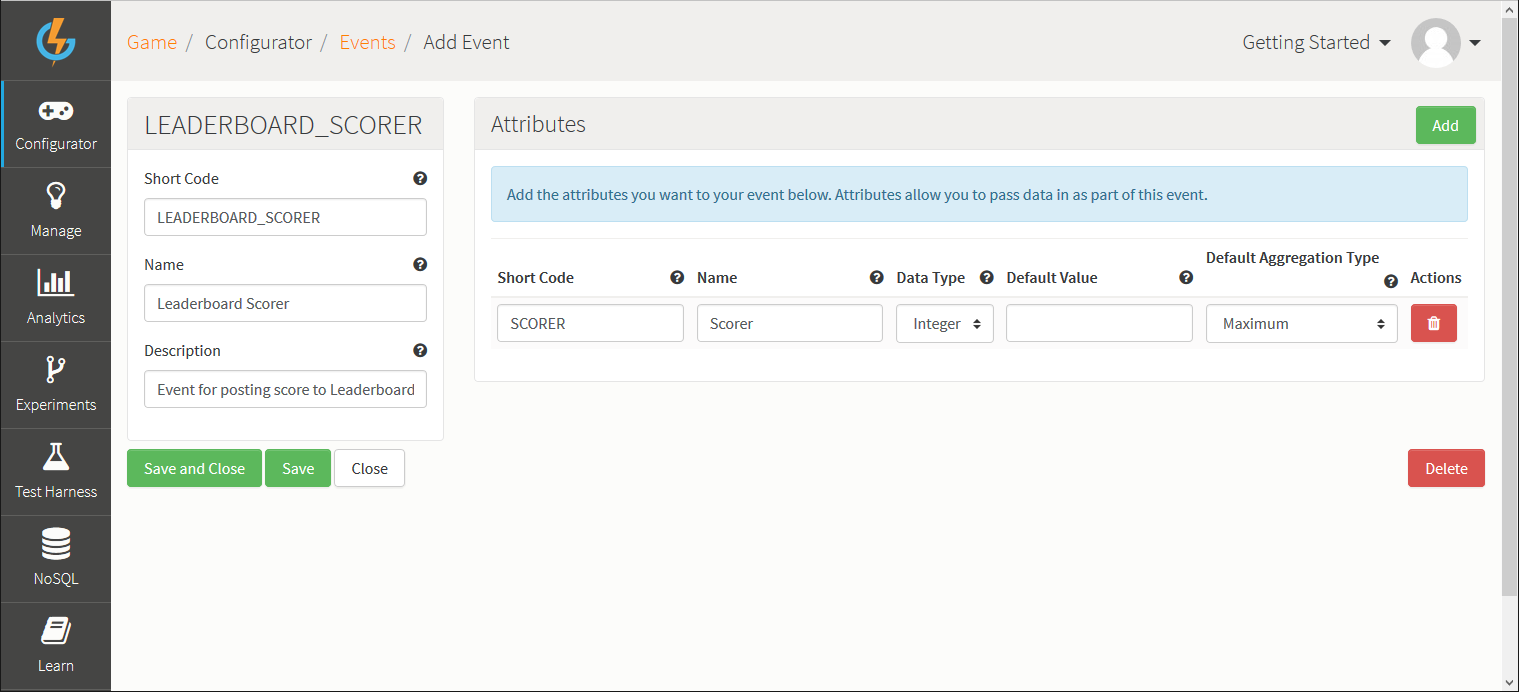
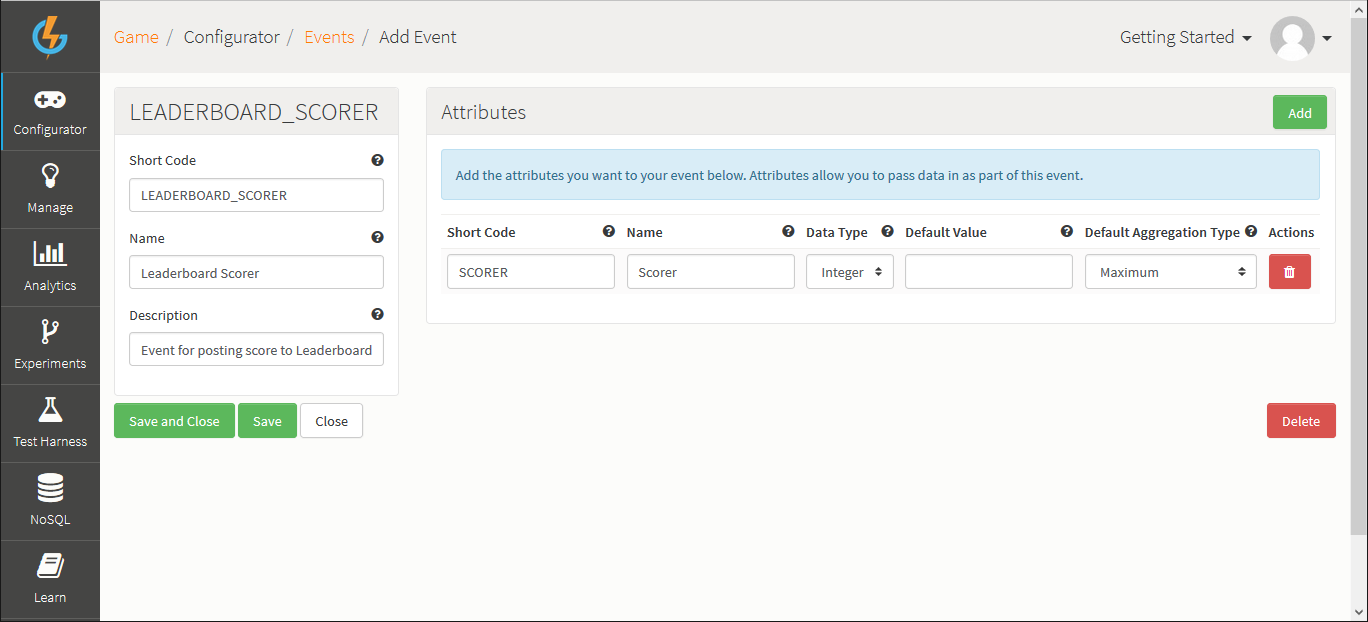
NEW UI rescreenshotting updates for GETTING STARTED topics

diff --git a/MARKDOWN/Getting Started/Creating a Leaderboard/README.md b/MARKDOWN/Getting Started/Creating a Leaderboard/README.md
@@ -18,7 +18,7 @@ In this tutorial, we'll go over the steps required to create an Event, attach 
 
 ## Creating an Event
 
-<q>**More Details on Events?** For an in-depth guide about Events click [here](/Documentation/Configurator/Events.md).</q>
+<q>**More Details on Events?** For an in-depth guide on Events click [here](/Documentation/Configurator/Events.md).</q>
 
 *1.* First, navigate to *Configurator > Events*.
 
@@ -35,15 +35,15 @@ In this tutorial, we'll go over the steps required to create an Event, attach 
 *5.* Enter the details for the Attribute:
   * *Attribute Name* - This field is referenced in the Test Harness and Leaderboards.
   * *Attribute Short Code* - This is the reference we'll be using to pass in an Attribute into the Event.
-  * *Data Type* - The type of data being passed in - String, Integer, or JSON.
-  * *Default Value* - This is the default value that would be used for this Event Attribute if it's not passed into the [LogEventRequest](/API Documentation/Request API/Player/LogEventRequest.md).
-  * *Default Calculation* - This determines how values are tracked in the Running Totals.
+  * *Data Type* - The type of data being passed in - String, Integer, or JSON. Select *Integer*
+  * *Default Value* - The default value that would be used for this Event Attribute if it's not passed into the [LogEventRequest](/API Documentation/Request API/Player/LogEventRequest.md).
+  * *Default Aggregation Type* - This determines how values are tracked in the Running Totals.
 
-<q>**Note:** You don't need to understand fully the concept of Running Totals for the purposes of this tutorial. For the Event Attribute, we set *Default Calc* to *Maximum* because we want to track the highest score posted for your player in the example we're setting up. Any Event that you create with an Attribute which *doesn't have* the *Default Calc* set to *Used in Script* will appear for selection as a Running Total when you configure a Leaderboard. (You can learn more about Running Totals [here](/Documentation/Configurator/Running Totals.md).)</q>
+<q>**Note:** You don't need to understand fully the concept of Running Totals for the purposes of this tutorial. For the Event Attribute, we set *Default Aggregation Type* to *Maximum* because we want to track the highest score posted for your player in the example we're setting up. Any Event that you create with an Attribute which *doesn't have* the *Default Aggregation Type* set to *Used in Script* will appear for selection as a Running Total when you configure a Leaderboard. (You can learn more about Running Totals [here](/Documentation/Configurator/Running Totals.md).)</q>
 
 ![](img/CreatingALeaderboard/7.png)
 
-*6.* Click to *Save and Close* the new Event with Score Attribute. You are returned to the *Events* page and the new Event will be added.
+*6.* Click to *Save and Close* the new Event with *Scorer* Attribute. You are returned to the *Events* page where the new Event will be added.
 
 ## Creating a Leaderboard
 
@@ -75,23 +75,23 @@ In this tutorial, we'll go over the steps required to create an Event, attach 
 
 When you've created your Leaderboard, navigate to the Test Harness. At this point, follow the steps you've used in the [Authentication](/Documentation/Key Concepts/Authentication.md) tutorial to create a second player.
 
-![](img/CreatingALeaderboard/3.png)
+![](img/CreatingALeaderboard/9.png)
 
-*1.* *Re-authenticate* using your *first* player. The authentication tutorial used username: *gs_player *and password: *gs_password*.
+*1.* *Re-authenticate* using your *first* player. The authentication tutorial used userName: *gs_player* and password: *gs_password*.
 
-*2.* When this completes, you'll need to click on [LogEventRequest](/API Documentation/Request API/Player/LogEventRequest.md) and select the Event you have created previously
+*2.* When this completes, you'll need to click on [LogEventRequest](/API Documentation/Request API/Player/LogEventRequest.md) and select the *Leaderboard Scorer* Event you created previously
 
-*3.* In the JSON builder, change the Score attribute of the Event to *1* and click the play ![](/img/fa/play.png) icon. This will log an Event, and since the Event is attached to a Leaderboard, it will post a score into that Leaderboard. The player will then receive a [NewHighScoreMessage](/API Documentation/Message API/Leaderboards/NewHighScoreMessage.md) indicating that their score has been updated in the Leaderboard.
+*3.* In the JSON builder, change the *SCORER* Attribute of the Event to *1* and click *Send request*. This will log an Event, and since the Event is attached to a Leaderboard, it will post a score into that Leaderboard. The player will then receive a [NewHighScoreMessage](/API Documentation/Message API/Leaderboards/NewHighScoreMessage.md) indicating that their score has been updated in the Leaderboard:
 
-*4.* Repeat this process for the *second* player, but this time entering a score of *2*:
+![](img/CreatingALeaderboard/10.png)
 
-![](img/CreatingALeaderboard/4.png)
+*4.* Repeat this process for the *second* player, but this time entering a score of *2*.
 
 *5.* You can now validate that the Leaderboard has worked correctly, that our sorting has taken place, and that both player scores have been logged by calling a [LeaderboardDataRequest](/API Documentation/Request API/Leaderboards/LeaderboardDataRequest.md), passing in the Leaderboard *Short Code* and the *Entry Count*.
 
 <q>**Note:** You will have additional JSON fields pre-filled, simply remove those as they are not used in this tutorial, all you need is *leaderboardShortCode* and *entryCount*.</q>
 
-![](img/CreatingALeaderboard/5.png)
+![](img/CreatingALeaderboard/11.png)
 
 
 ##  Listing Entries

diff --git a/MARKDOWN/Getting Started/Creating a Leaderboard/Unity Leaderboards.md b/MARKDOWN/Getting Started/Creating a Leaderboard/Unity Leaderboards.md
@@ -23,20 +23,20 @@ The first thing you need to do is create an Event that will push the player’s
 <q>**More Details on Events?** For an in-depth guide about Events click [here](/Documentation/Configurator/Events.md).</q>
 
 
-For this tutorial, your new Event needs one Attribute, which will be the score, and you can call the Event something like *Submit Score*. You can see the options for creating an Event are as follows:
+For this tutorial, your new Event needs one Attribute, which will be the score, and you can call the Event something like *Submit Score*. The options for creating an Event are as follows:
 
 *   *Short Code* – This mandatory field is the reference by which you will call the Event. *Short Codes* are always unique.
 *   *Name* – This mandatory field is used when representing the Event in Test Harness as well as in Cloud Code.
 *   *Description* – This mandatory field is used to display what the Event is used for. You can use this field for your own benefit by entering a description of the Event's purpose.
 * For the Attribute:
-	*   *Attribute Name* - This field is the name of the Attribute you want to pass into the Event. In your case this will be *Score*.
-	*   *Attribute Short Code* – This is the reference you'll be using to pass in an Attribute into the Event from Unity. In your case this will be *SCORE*.
-	*   *Data Type* – The type of data being passed in - String, Number, JSON. In your case, select *Number*.
+	*   *Name* - This field is the name of the Attribute you want to pass into the Event. In your case this will be *Score*.
+	*   *Short Code* – This is the reference you'll be using to pass in an Attribute into the Event from Unity. In your case this will be *SCORE*.
+	*   *Data Type* – The type of data being passed in - String, Integer, JSON. In your case, select *Integer*.
 	*   *Default Value* – This would be the default value that would be used for this Event Attribute if it’s not passed into the [LogEventRequest](/API Documentation/Request API/Player/LogEventRequest.md) , that is, a score of zero would be the default.
-	*   *Default Calculation* – This determines how values are tracked in the Running Totals. In your case you want the score to record the maximum, which means the Leaderboard will only record the player’s highest score. If they submit a lower score to the board, it will not be recorded.
+	*   *Default Aggregation Type* – This determines how values are tracked in the Running Totals. In your case you want the score to record the *Maximum*, which means the Leaderboard will only record the player’s highest score. If a player submits a lower score to the board, it will not be recorded.
 
 
-![](img/UT/1.png)
+![](img/UT/15.png)
 
 
 ## Creating the Leaderboard
@@ -45,7 +45,7 @@ Next you'll need to create your Leaderboard.
 
 *1.* Navigate to *Configurator > Leaderboards*.
 
-*2.* Click the plus ![](/img/fa/plus.png) icon to add a new Leaderboard. The *Create Leaderboard* dialog appears.
+*2.* Click *Add*. The page adjust for adding a new Leaderboard.
 
 <q>**More on Leaderboards?** Most of the details you see here can be left as default for this tutorial but you can get more information about Leaderboard configuration [here](/Documentation/Configurator/Leaderboards.md).</q>
 
@@ -53,11 +53,12 @@ Next you'll need to create your Leaderboard.
 * *Short Code*
 * *Name*
 * *Description*
+* *High Score Notifications*
 
-*4.* Click the plus icon ![](/img/fa/plus.png) to add a *Running Total* to the Leaderboard:
+*4.* Under *Fields*, click *Add* to add *Running Total* to the Leaderboard:
 * If the *Submit Score* created above is the first Event you've created in your game, this will be pre-selected for the new *Running Total*. This is because it's the only applicable Event you have in your game at the moment.
 
-![](img/UT/2.png)
+![](img/UT/16.png)
 
 ## Testing the Leaderboard
 
@@ -65,11 +66,11 @@ Now you're ready to send some scores to your Leaderboard. However, before you g
 
 After authenticating yourself as a Player, find your Event in the *LogEvent* tab, enter a score, and send the Event.
 
-![](img/UT/13.png)
+![](img/UT/17.png)
 
 Immediately after you send the request, you will see an orange message appear in the *Inspector*. This is a *NewHighScoreMessage* and when you go back into Unity you are going to set up an Event listener to execute some code whenever a player gets this Message.
 
-![](img/UT/4.png)
+![](img/UT/18.png)
 
 
 ### Getting the Leaderboard Data
@@ -79,7 +80,7 @@ You can also check your Leaderboard data entries from the Test Harness using th
 * This request gives you a lot of control over the entries it will return. However, you are only concerned with the Leaderboard *Short Code* and the *entry count* (the number of entries this request will return).
 * When you send the request, you'll see the list of Leaderboard entries returned on the *Inspector* on the right:
 
-![](img/UT/14.png)
+![](img/UT/19.png)
 
 
 Now you're ready to start sending and receiving Leaderboard data in Unity.

diff --git a/MARKDOWN/Getting Started/Creating an Achievement/README.md b/MARKDOWN/Getting Started/Creating an Achievement/README.md
@@ -24,7 +24,7 @@ In this section you'll learn how to award an Achievement using custom Cloud Code
 
 *1.* First, navigate to *Configurator > Achievements*.
 
-*2.* Click the plus ![](/img/fa/plus.png) icon. The *Create Achievement* dialog appears.
+*2.* Click *Add*. The *Add Achievement* page opens.
 
 *3.* Enter the details for the new Achievement:
 
@@ -36,16 +36,18 @@ In this section you'll learn how to award an Achievement using custom Cloud Code
 
 <q>**More on Achievements?** For an in-depth guide about Achievements click [here](/Documentation/Configurator/Achievements.md).</q>
 
-![](img/Create/8.png)
+![](img/Create/9.png)
 
 <q>**Other Configuration Options?** All other Achievement configuration options that are not listed above can be left as default for this tutorial.</q>
+
+*4.* Click *Save and Close*. The *Add Achievement* page closes and you are returned to the *Achievements* page where your new Achievement is added.
 
 ## Creating an Event
 
 Following creation of an Achievement, you'll need to create a new Event. You can reference back to [Creating a Leaderboard](/Getting Started/Creating a Leaderboard/README.md) if you need to refresh on how to do this:
 * We'll call the Event *Award Achievement*.
 
-![](img/Create/2.png)
+![](img/Create/10.png)
 
 ## Attaching Cloud Code to the Event
 
@@ -55,9 +57,9 @@ After you've created and configured the *Award Achievement* Event, you'll need t
 
 *2.* In the *Cloud Code* editor, add your custom Cloud Code for this Event.
 
-*3.* Click *Save* and you should see a *Success* alert.
+*3.* Click *Save*.
 
-![](img/Create/7.png)
+![](img/Create/11.png)
 
 * This piece of Cloud Code takes hold of the player object that is currently authenticated:
 
@@ -77,17 +79,17 @@ The Achievement is now fully configured to be awarded!
 
 *2.* At this point the Achievement you have configured awards some currency, and you need to validate that the player currently doesn't have any currency associated with their account. To do this you'll need to select Player tab and send an [AccountDetailsRequest](/API Documentation/Request API/Player/AccountDetailsRequest.md).
 
-![](img/Create/4.png)
+![](img/Create/12.png)
 
 *3.* Now you'll need to send the [LogEventRequest](/API Documentation/Request API/Player/LogEventRequest.md) for the Event you've configured earlier and using the  *Award_Achievement* Short Code you gave it as the *eventKey*:
 * This will award the Achievement to the currently authenticated player and send the [AchievementEarnedMessage](/API Documentation/Message API/Player/AchievementEarnedMessage.md).
 * Additionally, if you've enabled debug mode on your requests, the debugger should activate and you will be able to step through your Cloud Code. This only happens if your Requests/Responses/Messages have Cloud Code attached to them. You can read more about debugging Cloud Code [here](/Documentation/Test Harness/Debugger.md). After you've stepped through or exited the debugger, your player will be awarded the Achievement you've configured.
 
-![](img/Create/5.png)
+![](img/Create/13.png)
 
 *4.* Finally, you can validate that the currency was awarded by calling the [AccountDetailsRequest](/API Documentation/Request API/Player/AccountDetailsRequest.md).
 
-![](img/Create/6.png)
+![](img/Create/14.png)
    
 
 ## SDK Instructions
